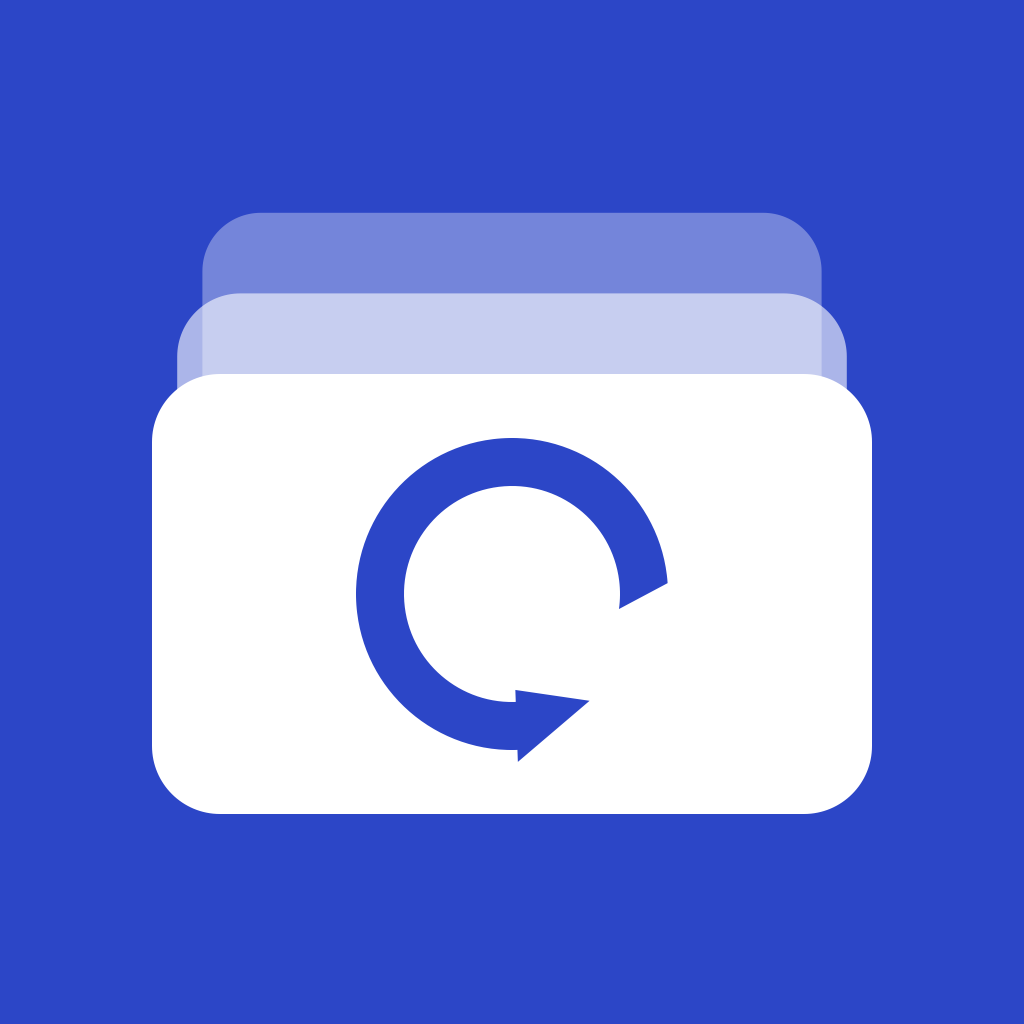
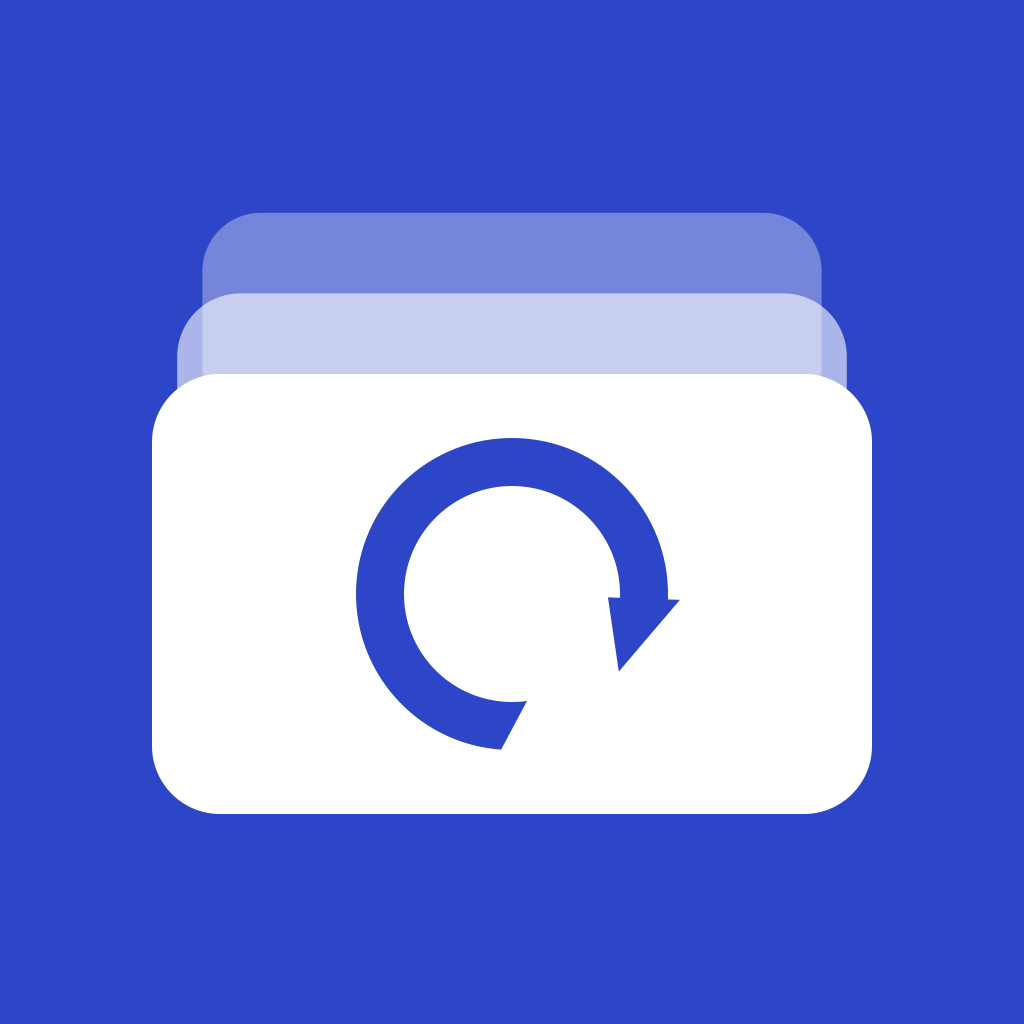
fix(home): 消除翻页时的闪烁；箭头方向反向
- stackedCard 不再用 if/else 分支（那是 _ConditionalContent，currentIndex 翻转时会重建子树 -> 闪）
- zIndex 改成整数距离，拖动中不再每帧重排
- 卡片去掉 depth 属性，压暗层挪到外层 overlay，拖动期间卡片 body 不重算
- 叠放区抽成独立 SubscriptionDeck，position 变化不影响上面的支出卡
- 图标箭头以缺口中心镜像，方向反过来，缺口仍在右下、尾巴仍斜切

版本 1.1.5（build 8）。

Changed region(s): [[0.4688, 0.6562, 0.5625, 0.75], [0.5938, 0.5625, 0.6562, 0.6562]]

diff --git a/packages/WSubscriptionKit/Sources/WSFeatures/Dashboard/DashboardView.swift b/packages/WSubscriptionKit/Sources/WSFeatures/Dashboard/DashboardView.swift
@@ -53,8 +53,7 @@ public struct MainShellView: View {
 public struct HomeView: View {
     @EnvironmentObject private var model: AppModel
     @State private var showAdd = false
-    @State private var position: CGFloat = 0
-    @State private var cardHeight: CGFloat = 420
+    @State private var index = 0
     @State private var detail: Subscription?
 
     public init() {}
@@ -94,21 +93,6 @@ public struct HomeView: View {
         }
     }
 
-    private var currentIndex: Int {
-        min(max(0, Int(position.rounded())), max(0, items.count - 1))
-    }
-
-    /// 叠放里要画的卡：当前卡前后各一张 + 后面两张，翻页过程中新旧卡同时在队列里，
-    /// 所以不会出现「换卡那一下整体闪一下」。
-    private var visibleCards: [(item: Subscription, index: Int)] {
-        guard !items.isEmpty else { return [] }
-        let base = Int(floor(position))
-        let lower = max(0, base - 1)
-        let upper = min(items.count - 1, base + 3)
-        guard lower <= upper else { return [] }
-        return (lower...upper).map { (items[$0], $0) }
-    }
-
     public var body: some View {
         NavigationStack {
             Screen {
@@ -131,7 +115,7 @@ public struct HomeView: View {
                         Spacer(minLength: 0)
                     } else {
                         deckHeader
-                        deck
+                        SubscriptionDeck(items: items, index: $index) { detail = $0 }
                     }
                 }
                 .padding(.horizontal, WSTheme.pagePadding)
@@ -172,7 +156,7 @@ public struct HomeView: View {
         HStack(alignment: .firstTextBaseline, spacing: 6) {
             Text("离得最近")
                 .font(.system(size: 13, weight: .semibold))
-            Text("\(currentIndex + 1) / \(items.count)")
+            Text("\(min(index + 1, items.count)) / \(items.count)")
                 .font(.system(size: 12))
                 .foregroundStyle(.tertiary)
                 .monospacedDigit()
@@ -183,52 +167,73 @@ public struct HomeView: View {
         }
         .padding(.horizontal, 4)
     }
+}
 
-    private var deck: some View {
+// MARK: - 卡片叠
+
+/// 独立成一个视图，`position` 只在这里变，父视图（支出卡那部分）不会跟着每帧重算。
+/// 卡片用固定的 zIndex 和固定的窗口范围，翻页过程中不增删视图，所以不会闪。
+private struct SubscriptionDeck: View {
+    let items: [Subscription]
+    @Binding var index: Int
+    let onSelect: (Subscription) -> Void
+
+    @State private var position: CGFloat = 0
+    @State private var cardHeight: CGFloat = 420
+
+    var body: some View {
         GeometryReader { proxy in
-            // 上面留 30pt 给后面两张卡露边，下面正好到标签栏上方
             let height = max(300, proxy.size.height - 38)
             ZStack(alignment: .top) {
-                ForEach(visibleCards, id: \.item.id) { entry in
-                    stackedCard(entry, height: height)
+                ForEach(visible, id: \.item.id) { entry in
+                    card(entry, height: height)
                 }
             }
+            .padding(.top, 30)
+            .frame(maxWidth: .infinity, maxHeight: .infinity, alignment: .top)
+            .clipped()
             .contentShape(Rectangle())
             .gesture(dragGesture)
             .onAppear { cardHeight = height }
             .onChange(of: height) { _, newValue in cardHeight = newValue }
-            .padding(.top, 30)
-            .frame(maxWidth: .infinity, maxHeight: .infinity, alignment: .top)
-            // 只在堆叠范围内滑动：拖出边界的部分被裁掉，不会盖住上面的支出卡
-            .clipped()
+            .onChange(of: position) { _, newValue in
+                let rounded = min(max(0, Int(newValue.rounded())), max(0, items.count - 1))
+                if rounded != index { index = rounded }
+            }
         }
     }
 
-    @ViewBuilder
-    private func stackedCard(_ entry: (item: Subscription, index: Int), height: CGFloat) -> some View {
+    /// 窗口按 index 算，拖动过程中不增删卡片
+    private var visible: [(item: Subscription, index: Int)] {
+        guard !items.isEmpty else { return [] }
+        let lower = max(0, index - 1)
+        let upper = min(items.count - 1, index + 2)
+        guard lower <= upper else { return [] }
+        return (lower...upper).map { (items[$0], $0) }
+    }
+
+    private func card(_ entry: (item: Subscription, index: Int), height: CGFloat) -> some View {
         let d = CGFloat(entry.index) - position
-        let card = SubscriptionDeckCard(subscription: entry.item, depth: max(0, d))
+        return SubscriptionDeckCard(subscription: entry.item)
             .frame(height: height)
+            .overlay {
+                // 越靠后的卡压一层黑，层次连续，卡片本体不用重算
+                RoundedRectangle(cornerRadius: 26, style: .continuous)
+                    .fill(.black.opacity(0.26 * Double(min(2, max(0, d)))))
+            }
             .scaleEffect(scale(for: d), anchor: .top)
             .offset(y: offset(for: d, height: height))
-            .opacity(opacity(for: d))
-            .zIndex(Double(20 - d))
-
-        if entry.index == currentIndex {
-            card.onTapGesture { detail = entry.item }
-        } else {
-            card.allowsHitTesting(false)
-        }
+            // 固定的层级：当前卡在最上，其余按距离排，不在拖动中反复调整
+            .zIndex(-Double(abs(entry.index - index)))
+            .allowsHitTesting(entry.index == index)
+            .onTapGesture { onSelect(entry.item) }
     }
 
-    /// d = 卡片序号 − 连续位置。0 是当前卡，正数是后面的卡，负数是刚翻过去的卡。
     private func scale(for d: CGFloat) -> CGFloat {
         if d >= 0 {
-            let t = min(2, d)
-            return 1 - 0.03 * t
+            return 1 - 0.03 * min(2, d)
         } else {
-            let t = min(1, -d)
-            return 1 - 0.055 * t
+            return 1 - 0.055 * min(1, -d)
         }
     }
 
@@ -236,36 +241,32 @@ public struct HomeView: View {
         if d >= 0 {
             return -9 * min(2, d)
         } else {
-            let t = min(1, -d)
-            return -height * 1.05 * t
+            return -height * 1.05 * min(1, -d)
         }
-    }
-
-    private func opacity(for d: CGFloat) -> Double {
-        1
     }
 
     private var dragGesture: some Gesture {
         DragGesture(minimumDistance: 6)
             .onChanged { value in
                 let delta = -value.translation.height / max(1, cardHeight)
-                let proposed = position + delta
-                position = rubberBand(proposed)
+                position = rubberBand(positionStart + delta)
             }
             .onEnded { value in
                 let projected = position - value.predictedEndTranslation.height / max(1, cardHeight) * 0.35
-                var target = projected.rounded()
-                if abs(value.predictedEndTranslation.height) < 90 {
-                    target = position.rounded()
-                }
+                var target = abs(value.predictedEndTranslation.height) < 90
+                    ? position.rounded()
+                    : projected.rounded()
                 target = min(max(0, target), CGFloat(max(0, items.count - 1)))
                 withAnimation(.spring(response: 0.4, dampingFraction: 0.86)) {
                     position = target
                 }
+                positionStart = target
             }
     }
 
-    /// 到头了继续拖会有阻尼，回弹自然
+    /// 拖动开始时记下起点，避免把每帧的增量累加到已经变化过的 position 上
+    @State private var positionStart: CGFloat = 0
+
     private func rubberBand(_ value: CGFloat) -> CGFloat {
         let maxIndex = CGFloat(max(0, items.count - 1))
         if value < 0 { return value * 0.28 }
@@ -411,7 +412,6 @@ private struct YearProgressCard: View {
 
 private struct SubscriptionDeckCard: View {
     let subscription: Subscription
-    var depth: CGFloat = 0
 
     @Environment(\.colorScheme) private var colorScheme
 
@@ -422,10 +422,7 @@ private struct SubscriptionDeckCard: View {
         colorScheme == .dark ? Color(hex: "#2A2C34") : Color(hex: "#141519")
     }
 
-    /// 越靠后的卡叠一层黑，层次自然，也不用给每张卡准备一套颜色
-    private var dimming: Double {
-        0.26 * Double(min(2, max(0, depth)))
-    }
+
 
     private var bandText: Color { Color(hex: "#16171B") }
 
@@ -439,10 +436,6 @@ private struct SubscriptionDeckCard: View {
         .overlay {
             RoundedRectangle(cornerRadius: 26, style: .continuous)
                 .strokeBorder(.white.opacity(colorScheme == .dark ? 0.12 : 0.05), lineWidth: 0.5)
-        }
-        .overlay {
-            RoundedRectangle(cornerRadius: 26, style: .continuous)
-                .fill(.black.opacity(dimming))
         }
         .clipShape(RoundedRectangle(cornerRadius: 26, style: .continuous))
         .contentShape(RoundedRectangle(cornerRadius: 26, style: .continuous))

diff --git a/tools/make_icon.swift b/tools/make_icon.swift
@@ -70,6 +70,14 @@ if variant == "renew" {
     let outerStart = tailAngle + chisel
     let innerEnd = tailAngle - chisel
 
+    // 以缺口中心（-45°）为轴做镜像：缺口还留在右下角，箭头方向反过来
+    ctx.saveGState()
+    ctx.translateBy(x: center.x, y: center.y)
+    ctx.rotate(by: radians(-45))
+    ctx.scaleBy(x: 1, y: -1)
+    ctx.rotate(by: radians(45))
+    ctx.translateBy(x: -center.x, y: -center.y)
+
     // 环身：上沿从斜切口逆时针绕到箭头根部，再沿内沿绕回
     let ring = CGMutablePath()
     ring.move(to: point(innerEnd, radius - halfWidth))
@@ -93,6 +101,8 @@ if variant == "renew" {
     head.closeSubpath()
     ctx.addPath(head)
     ctx.fillPath()
+
+    ctx.restoreGState()
 }
 
 guard let image = ctx.makeImage() else { exit(1) }

diff --git a/docs/开发方案.md b/docs/开发方案.md
@@ -1095,3 +1095,17 @@ iOS 26 的选择器只对**可写目录**启用「打开」；再叠加侧载签
 - 手势挂在堆叠容器上而不是某张卡上：翻页中 `currentIndex` 会变，挂在单卡上会导致手势中途丢失。
 - 到头继续拖有 0.28 的阻尼系数，回弹自然。
 - 后面的卡不再是「另一套颜色」，而是统一卡面叠一层黑（每层 0.26），层次连续；卡片高度再减 8pt。
+
+### 17.13 修：翻页仍然闪一下（v1.1.5）
+
+上一版把「换 index」改成了连续 position，但闪还在。真正的原因是**视图重建**，不是动画：
+
+1. `stackedCard` 里写了 `if entry.index == currentIndex { 卡.onTapGesture } else { 卡.allowsHitTesting(false) }`。`_ConditionalContent` 的两个分支是不同类型，`currentIndex` 在翻页中途翻转时，SwiftUI 会把整棵子树销毁重建 —— 就是那一下闪。
+   → 改成无分支：`.allowsHitTesting(entry.index == index)`，只有修饰符参数变，视图不重建。
+2. `zIndex` 用的是连续值 `20 - d`，每帧都在变，会触发重新排序。
+   → 改成整数距离 `-abs(entry.index - index)`，只在 index 变化时改。
+3. 卡片本身带了 `depth`，拖动时每帧都重新求值整个卡片 body。
+   → `depth` 从卡片里拿掉，压暗层改成外层 `.overlay`，卡片在拖动期间完全不重算。
+4. 叠放区单独抽成 `SubscriptionDeck`，`position` 只在这个视图里变，上面的两张支出卡不会跟着每帧重绘。
+
+图标箭头反向：以缺口中心（-45°）为轴做一次镜像，缺口仍在右下角、尾巴仍是斜切，只是方向反过来。
